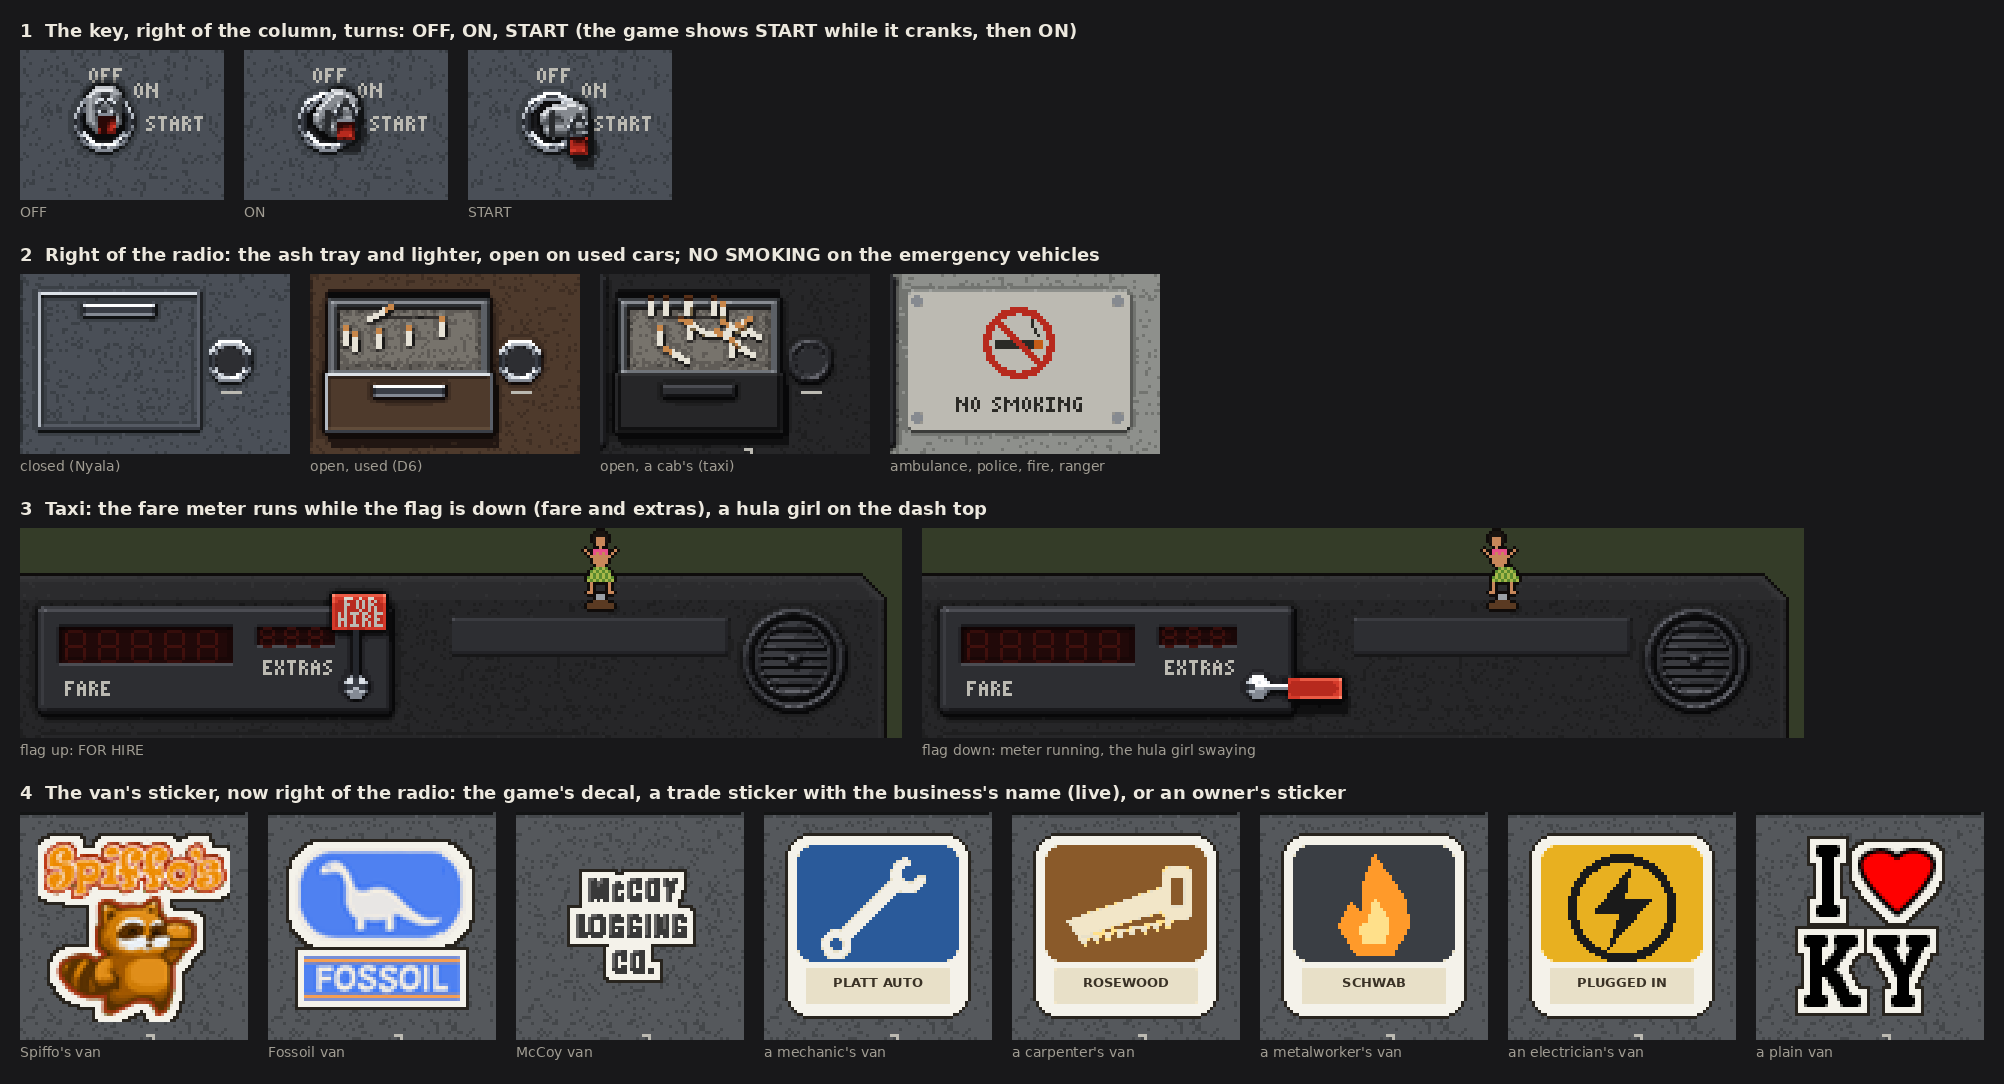
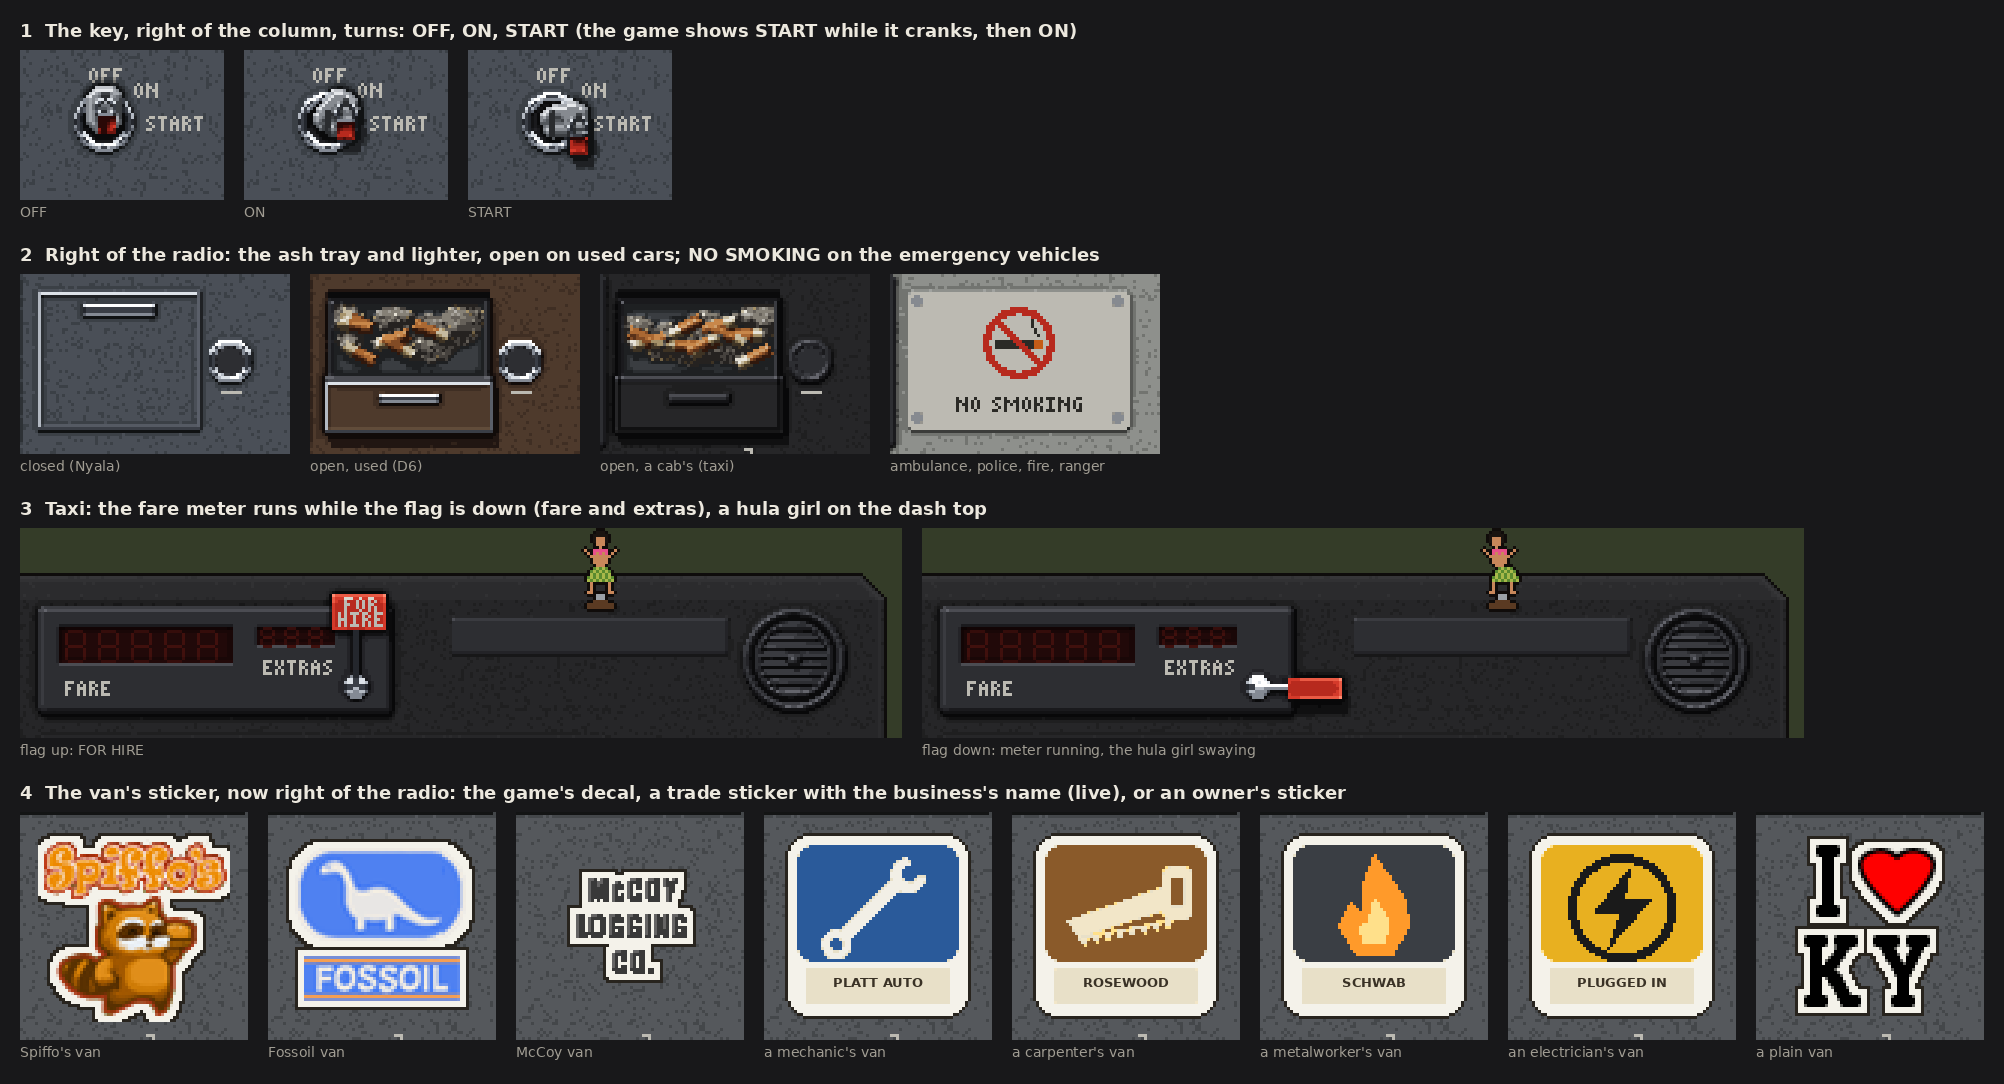
Mockups: rounded thought bubble, ash trays at real scale
Director, Oct 24: 'Rounded thought bubble' - the cloud's lobes are gone: a smooth round-ended body (corner radius 10) with the trail of bubbles to the head (zed_bubbles_v3.png). And 'here's some help with ashtray scale' (three photos): the open ash tray redrawn - a black bin, a lumpy heap of light grey ash with paper flecks, butts as round bars a quarter of the tray long and a tenth of it thick, cork filter and burnt paper end, half sunk in the ash.

Claude-Session: https://claude.ai/code/session_015Lv8fXDH1kuxg46sEw6iLh

Changed region(s): [[0.1547, 0.274, 0.2475, 0.3958], [0.3094, 0.274, 0.4022, 0.3653]]

diff --git a/ZeDUI/mockups/zed_dashboard_r6/src/v6.py b/ZeDUI/mockups/zed_dashboard_r6/src/v6.py
@@ -18,7 +18,7 @@ from widgets import window, chrome_frame, knob, button, icon_mask, line_mask, ri
 import dashlib as DL
 from dashlib import W, H, Z_FACE, box
 
-add_ramp("ash", "#77736c")
+add_ramp("ash", "#a29e96")
 add_ramp("cork", "#c8874a")
 add_ramp("paper", "#e6e2d6")
 add_ramp("skin", "#c8875a")
@@ -276,47 +276,62 @@ def ash_tray(b, x, y, chrome=True, lighter=True, butts=6, seed=3):
         d.paint(icon_mask(d, "cig", lx - 3, ly + 9) if "cig" in DL.ICONS else box(lx - 3, ly + 10, 7, 1), "paint_w", flatlight=True)
 
     def opened(d2, x=x, y=y, dw=dw):
-        """slid out toward the driver: the steel bowl showing over the drawer front, grey ash, butts"""
+        """slid out toward the driver: the bin's dark lip, a heap of grey ash, butts at their real size against the
+        tray (director's photos, Oct 24: a butt is about a quarter of the tray wide and a tenth of it thick)"""
         rng = np.random.default_rng(seed)
-        bowl_h = 27
+        bowl_h = 28
         hole = box(x, y, dw, 3)                               # the dark slot it slid out of
         d2.h[hole] = Z_FACE - 3.0; d2.mat[hole] = d2.mid("blackp"); d2.solid |= hole; d2.tex[hole] = 0
         d2.dark[hole] = np.maximum(d2.dark[hole], 0.6)
         bowl = box(x, y + 2, dw, bowl_h)
-        d2.slab(bowl, 4.0, "steel", bevel=1.2, polish=0.7, on=Z_FACE + 0.4)
-        ashm = box(x + 3, y + 5, dw - 6, bowl_h - 6)
-        d2.flat(ashm, Z_FACE + 2.4, "ash", polish=0.05)
-        n = rng.random((H, W))
-        d2.tex[ashm & (n > 0.78)] += 0.10; d2.tex[ashm & (n < 0.14)] -= 0.10
-        lay = []
-        for i in range(butts):
-            bx = int(x + 5 + rng.random() * (dw - 16)); by = int(y + 9 + rng.random() * (bowl_h - 12))
-            lay.append((by, bx, int(rng.choice(4, p=[0.35, 0.25, 0.25, 0.15]))))
-        for i in range(max(0, butts - 7)):        # a full one: butts standing at the back, poking over the rim
-            lay.append((y + 8, int(x + 8 + rng.random() * (dw - 18)), 0))
-        lay.sort()
-        for by, bx, kind in lay:
-            if kind == 0:      # standing in the ash, the cork up
-                pm = box(bx, by - 5, 2, 5); cm = box(bx, by - 7, 2, 2); sh_ = box(bx + 2, by - 4, 1, 4)
-            elif kind == 1:    # lying, leaning right
-                pm = line_mask(d2, bx, by, bx + 5, by - 3, 1.8); cm = line_mask(d2, bx + 5.5, by - 3.3, bx + 7, by - 4.2, 1.8)
-                sh_ = line_mask(d2, bx + 1, by + 1.4, bx + 6, by - 1.6, 1.0)
-            elif kind == 2:    # lying, leaning left
-                pm = line_mask(d2, bx + 7, by, bx + 2, by - 3, 1.8); cm = line_mask(d2, bx + 1.5, by - 3.3, bx, by - 4.2, 1.8)
-                sh_ = line_mask(d2, bx + 7, by + 1.4, bx + 2, by - 1.6, 1.0)
-            else:              # crushed flat
-                pm = box(bx, by, 5, 2); cm = box(bx + 5, by, 2, 2); sh_ = box(bx, by + 2, 7, 1)
-            sh_ &= ashm & ~pm & ~cm
-            d2.dark[sh_] = np.maximum(d2.dark[sh_], 0.45)
-            d2.h[pm] = Z_FACE + 3.4; d2.mat[pm] = d2.mid("paper"); d2.solid |= pm; d2.polish[pm] = 0.3; d2.tex[pm] = 0
-            d2.flatlight |= pm
-            d2.h[cm] = Z_FACE + 3.6; d2.mat[cm] = d2.mid("cork"); d2.solid |= cm; d2.polish[cm] = 0.3; d2.tex[cm] = 0
-            d2.flatlight |= cm
-        fr = box(x - 1, y + bowl_h, dw + 2, ASH_H - bowl_h + 1)
+        d2.slab(bowl, 4.0, "blackp", bevel=1.2, polish=0.6, on=Z_FACE + 0.4)       # the bin, black plastic
+        inner = box(x + 2, y + 4, dw - 4, bowl_h - 4)
+        d2.flat(inner, Z_FACE + 1.0, "steel", polish=0.2)
+        d2.dark[inner] = np.maximum(d2.dark[inner], 0.25)
+        # the ash: a lumpy heap, higher toward the back, grey with white paper flecks and dark char
+        Y, X = d2.YY, d2.XX
+        n1 = rng.random((H, W)); n2 = rng.random((H, W))
+        lump = np.zeros((H, W), np.float32)
+        for _ in range(12):
+            cx_, cy_ = x + 3 + rng.random() * (dw - 6), y + 6 + rng.random() * (bowl_h - 10)
+            r_ = 4 + rng.random() * 6
+            lump += np.clip(1 - np.hypot(X + 0.5 - cx_, (Y + 0.5 - cy_) * 1.4) / r_, 0, 1) * (0.8 + rng.random())
+        ashm = inner & (lump > 0.12)
+        d2.h[ashm] = Z_FACE + 1.4 + np.clip(lump[ashm], 0, 2.2) * 1.3 + n1[ashm] * 0.5
+        d2.mat[ashm] = d2.mid("ash"); d2.polish[ashm] = 0.05; d2.tex[ashm] = 0
+        d2.tex[ashm & (n2 > 0.86)] += 0.16; d2.tex[ashm & (n2 < 0.10)] -= 0.16
+        fl = ashm & (n1 > 0.93); d2.mat[fl] = d2.mid("paper")
+        # the butts: a round bar with a cork filter and a burnt paper end, laid at their angle, half sunk in the ash
+        BR, BL, FL = 2.2, 13.0, 8.0
+        def butt(cx_, cy_, ang, sink=0.6):
+            a_ = np.radians(ang); ux, uy = np.cos(a_), np.sin(a_)
+            px_, py_ = X + 0.5 - cx_, Y + 0.5 - cy_
+            along = px_ * ux + py_ * uy; perp = -px_ * uy + py_ * ux
+            m = (np.abs(perp) <= BR) & (along >= -BL / 2) & (along <= BL / 2) & inner
+            if not m.any(): return
+            prof = np.sqrt(np.clip(1 - (perp[m] / BR) ** 2, 0, 1))
+            hh = Z_FACE + 2.2 + sink + prof * 2.6
+            keep = hh > d2.h[m]
+            sel = np.zeros((H, W), bool); sel[m] = keep
+            d2.h[sel] = hh[keep]; d2.solid |= sel; d2.polish[sel] = 0.35; d2.tex[sel] = 0
+            t = along + BL / 2
+            cork = sel & (t < FL); paper = sel & (t >= FL) & (t < BL - 1.2); char = sel & (t >= BL - 1.2)
+            d2.mat[cork] = d2.mid("cork"); d2.mat[paper] = d2.mid("paper"); d2.mat[char] = d2.mid("ash")
+            d2.dark[char] = np.maximum(d2.dark[char], 0.35)
+            d2.tex[cork & (n2 > 0.8)] += 0.08                  # the filter paper's speckle
+            ring = sel & (t >= FL - 0.6) & (t < FL + 0.4); d2.tex[ring] -= 0.06
+        n = butts
+        for i in range(n):
+            cx_ = x + 8 + rng.random() * (dw - 16); cy_ = y + 9 + rng.random() * (bowl_h - 15)
+            butt(cx_, cy_, rng.uniform(-35, 35) + (180 if rng.random() < 0.5 else 0), sink=rng.uniform(0.0, 1.2))
+        # the bin's front lip and the drawer front, out and lower, its pull
+        lip = box(x - 1, y + bowl_h, dw + 2, 2)
+        d2.slab(lip, 5.4, "blackp", bevel=0.8, polish=0.8, on=Z_FACE + 0.4)
+        fr = box(x - 1, y + bowl_h + 2, dw + 2, ASH_H - bowl_h - 1)
         d2.slab(fr, 5.0, b.cabin, bevel=1.0, polish=0.2, on=Z_FACE + 0.4)
-        if chrome: chrome_frame(d2, x - 1, y + bowl_h, dw + 2, ASH_H - bowl_h + 1, Z_FACE + 5.0, t=1, r=1, z=1.2)
-        pull2 = M().rrect(x + dw // 2 - 12, y + bowl_h + 4, 24, 4, 1).get()
-        d2.slab(pull2, 2.6, met, bevel=1.0, polish=1.0, on=Z_FACE + 5.4)
+        if chrome: chrome_frame(d2, x - 1, y + bowl_h + 2, dw + 2, ASH_H - bowl_h - 1, Z_FACE + 5.0, t=1, r=1, z=1.2)
+        pull2 = M().rrect(x + dw // 2 - 10, y + bowl_h + 6, 20, 3, 1).get()
+        d2.slab(pull2, 2.4, met, bevel=1.0, polish=1.0, on=Z_FACE + 5.4)
     b.variant(f"ash_{b.id}", "ashOpen", opened, True)
     b.hit("ash", x, y, dw, ASH_H)
     b.meta["ash"] = (x, y, dw, ASH_H)

diff --git a/ZeDUI/mockups/zed_bubbles_v1/bubbles.py b/ZeDUI/mockups/zed_bubbles_v1/bubbles.py
@@ -122,26 +122,18 @@ def thought(cv, st, hx_, hy_, th, gap=3):
     sh = th["shadow"]
 
     def cloud(ox, oy, fill, ink, shadow=False):
-        # a rounded body with a few broad lobes (director, Oct 24: "less ripples"): about one every 22 units along
-        # the top and bottom, one on each end, each bulging 2 units past the body; the ink round the union
+        # director, Oct 24: "rounded thought bubble": no lobes, a smooth round-ended body (corner radius 10, the
+        # ends nearly half round), the ink round it; the trail of bubbles is what makes it a thought
         import numpy as np
-        P = 6
-        m = np.zeros((h + 2 * P, w + 2 * P), bool)
-        Y, X = np.mgrid[0:h + 2 * P, 0:w + 2 * P]
-        c0 = P
-        R = 6.2
-        m |= (X >= c0 + 1) & (X < c0 + w - 1) & (Y >= c0 + 1) & (Y < c0 + h - 1)
-        m &= ~(((X < c0 + 3) | (X >= c0 + w - 3)) & ((Y < c0 + 3) | (Y >= c0 + h - 3)))   # the body's corners eased
-        n = max(3, int(round((w - 12) / 22.0)) + 1)
-        for i in range(n):
-            bx = c0 + 6 + (w - 13) * i / (n - 1)
-            for by in (c0 + R - 2, c0 + h - R + 1):
-                m |= (X + 0.5 - bx) ** 2 + (Y + 0.5 - by) ** 2 <= R ** 2
-        for bx in (c0 + R - 2, c0 + w - R + 1):
-            m |= (X + 0.5 - bx) ** 2 + (Y + 0.5 - (c0 + h / 2)) ** 2 <= R ** 2
+        R = 10.5
+        Y, X = np.mgrid[0:h, 0:w]
+        cxl, cxr, cyt, cyb = R, w - R, R, h - R
+        qx = np.clip(X + 0.5, cxl, cxr); qy = np.clip(Y + 0.5, cyt, cyb)
+        m = np.hypot(X + 0.5 - qx, Y + 0.5 - qy) <= R
         edge = m & ~(np.roll(m, 1, 0) & np.roll(m, -1, 0) & np.roll(m, 1, 1) & np.roll(m, -1, 1))
+        edge[0, :] |= m[0, :]; edge[-1, :] |= m[-1, :]; edge[:, 0] |= m[:, 0]; edge[:, -1] |= m[:, -1]
         for (yy, xx) in zip(*np.nonzero(m)):
-            cv.rect(ox + xx - c0, oy + yy - c0, 1, 1, ink if (edge[yy, xx] or shadow) else fill)
+            cv.rect(ox + xx, oy + yy, 1, 1, ink if (edge[yy, xx] or shadow) else fill)
 
     cloud(x + 2, y + 2, sh, sh, shadow=True)
     # the trail of bubbles toward the head, the smallest nearest it

diff --git a/ZeDUI/mockups/zed_dashboard_r6/src/designs.py b/ZeDUI/mockups/zed_dashboard_r6/src/designs.py
@@ -280,7 +280,7 @@ def con_fleet(b, top="siren", badge_role="unit", chrome=False):
         vent_eyeball(b, 764, 44, 14, bezel="blackp")
         v6.hula(b, 690, 0)
     headunit_slot(b, 518, 76, frame="bezel")
-    if top == "meter": ash_tray(b, 706, 76, chrome=False, butts=12, seed=11)
+    if top == "meter": ash_tray(b, 706, 76, chrome=False, butts=10, seed=11)
     else: no_smoking(b, 706, 76)
     # three pixels higher than the sedans' so the AIR legends (a clear pixel under the tab) stay on the console
     climate_levers(b, 540, 135, chrome=chrome, fan_knob=(752, 146))
